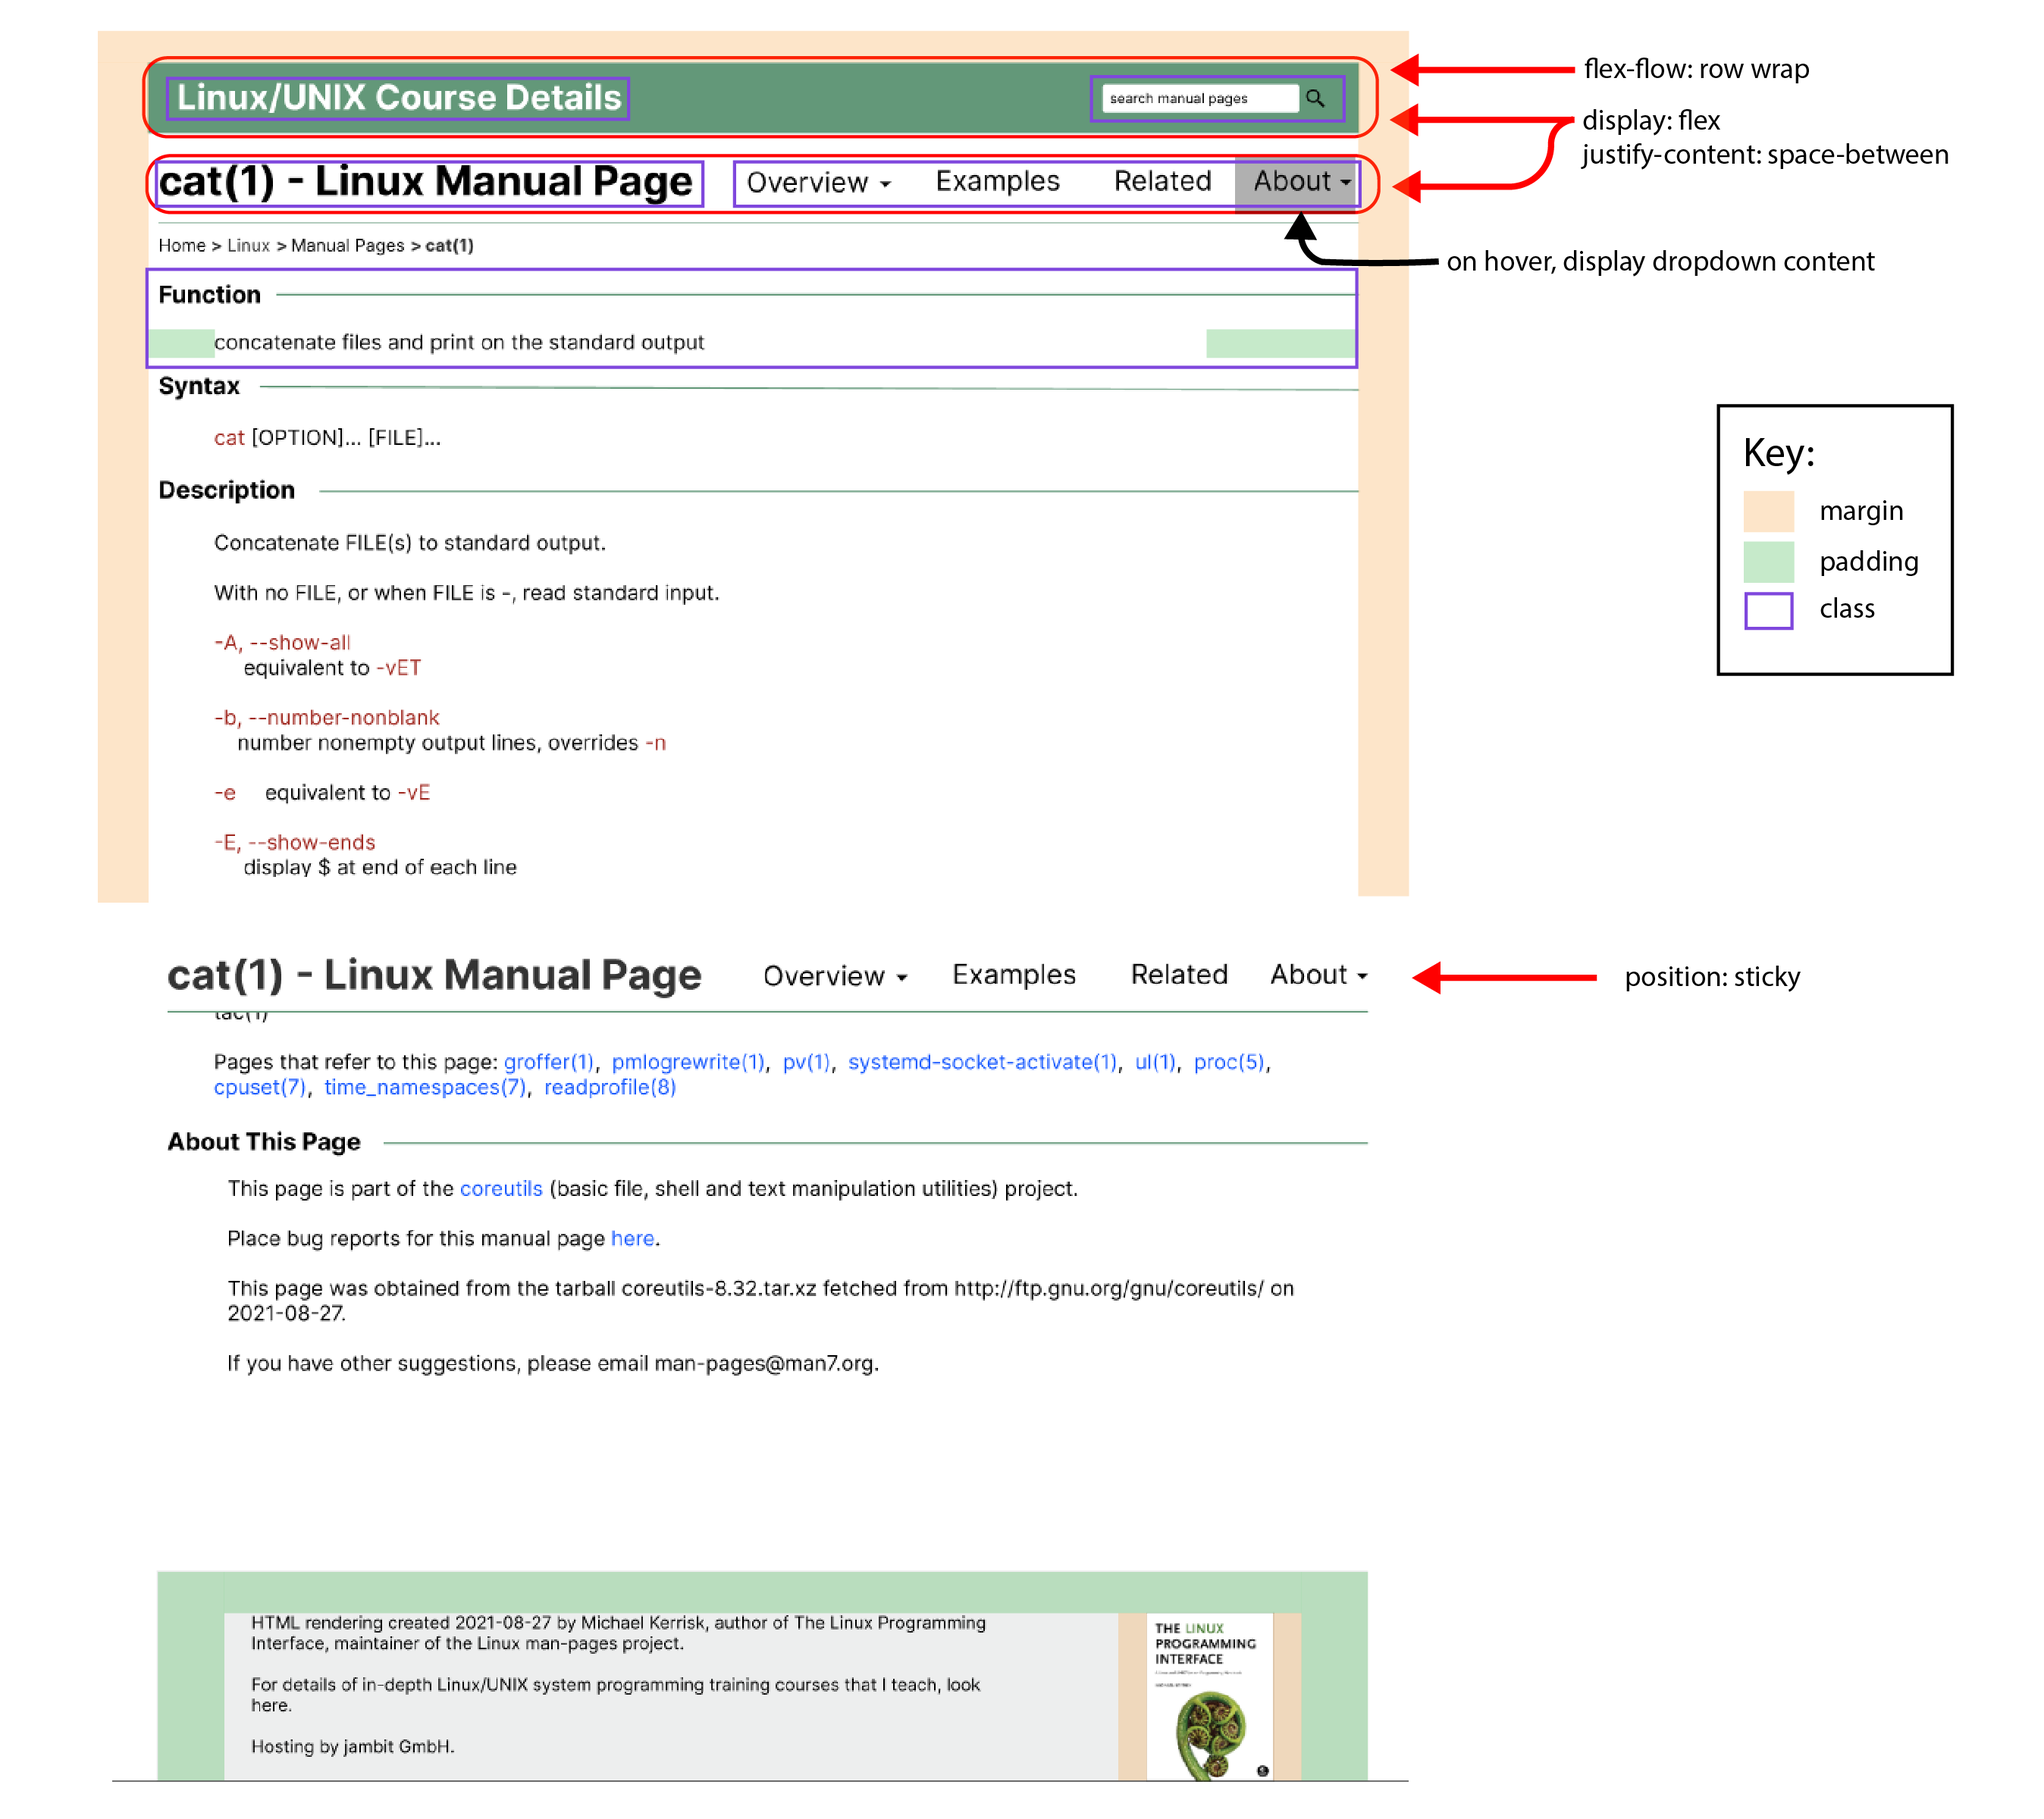
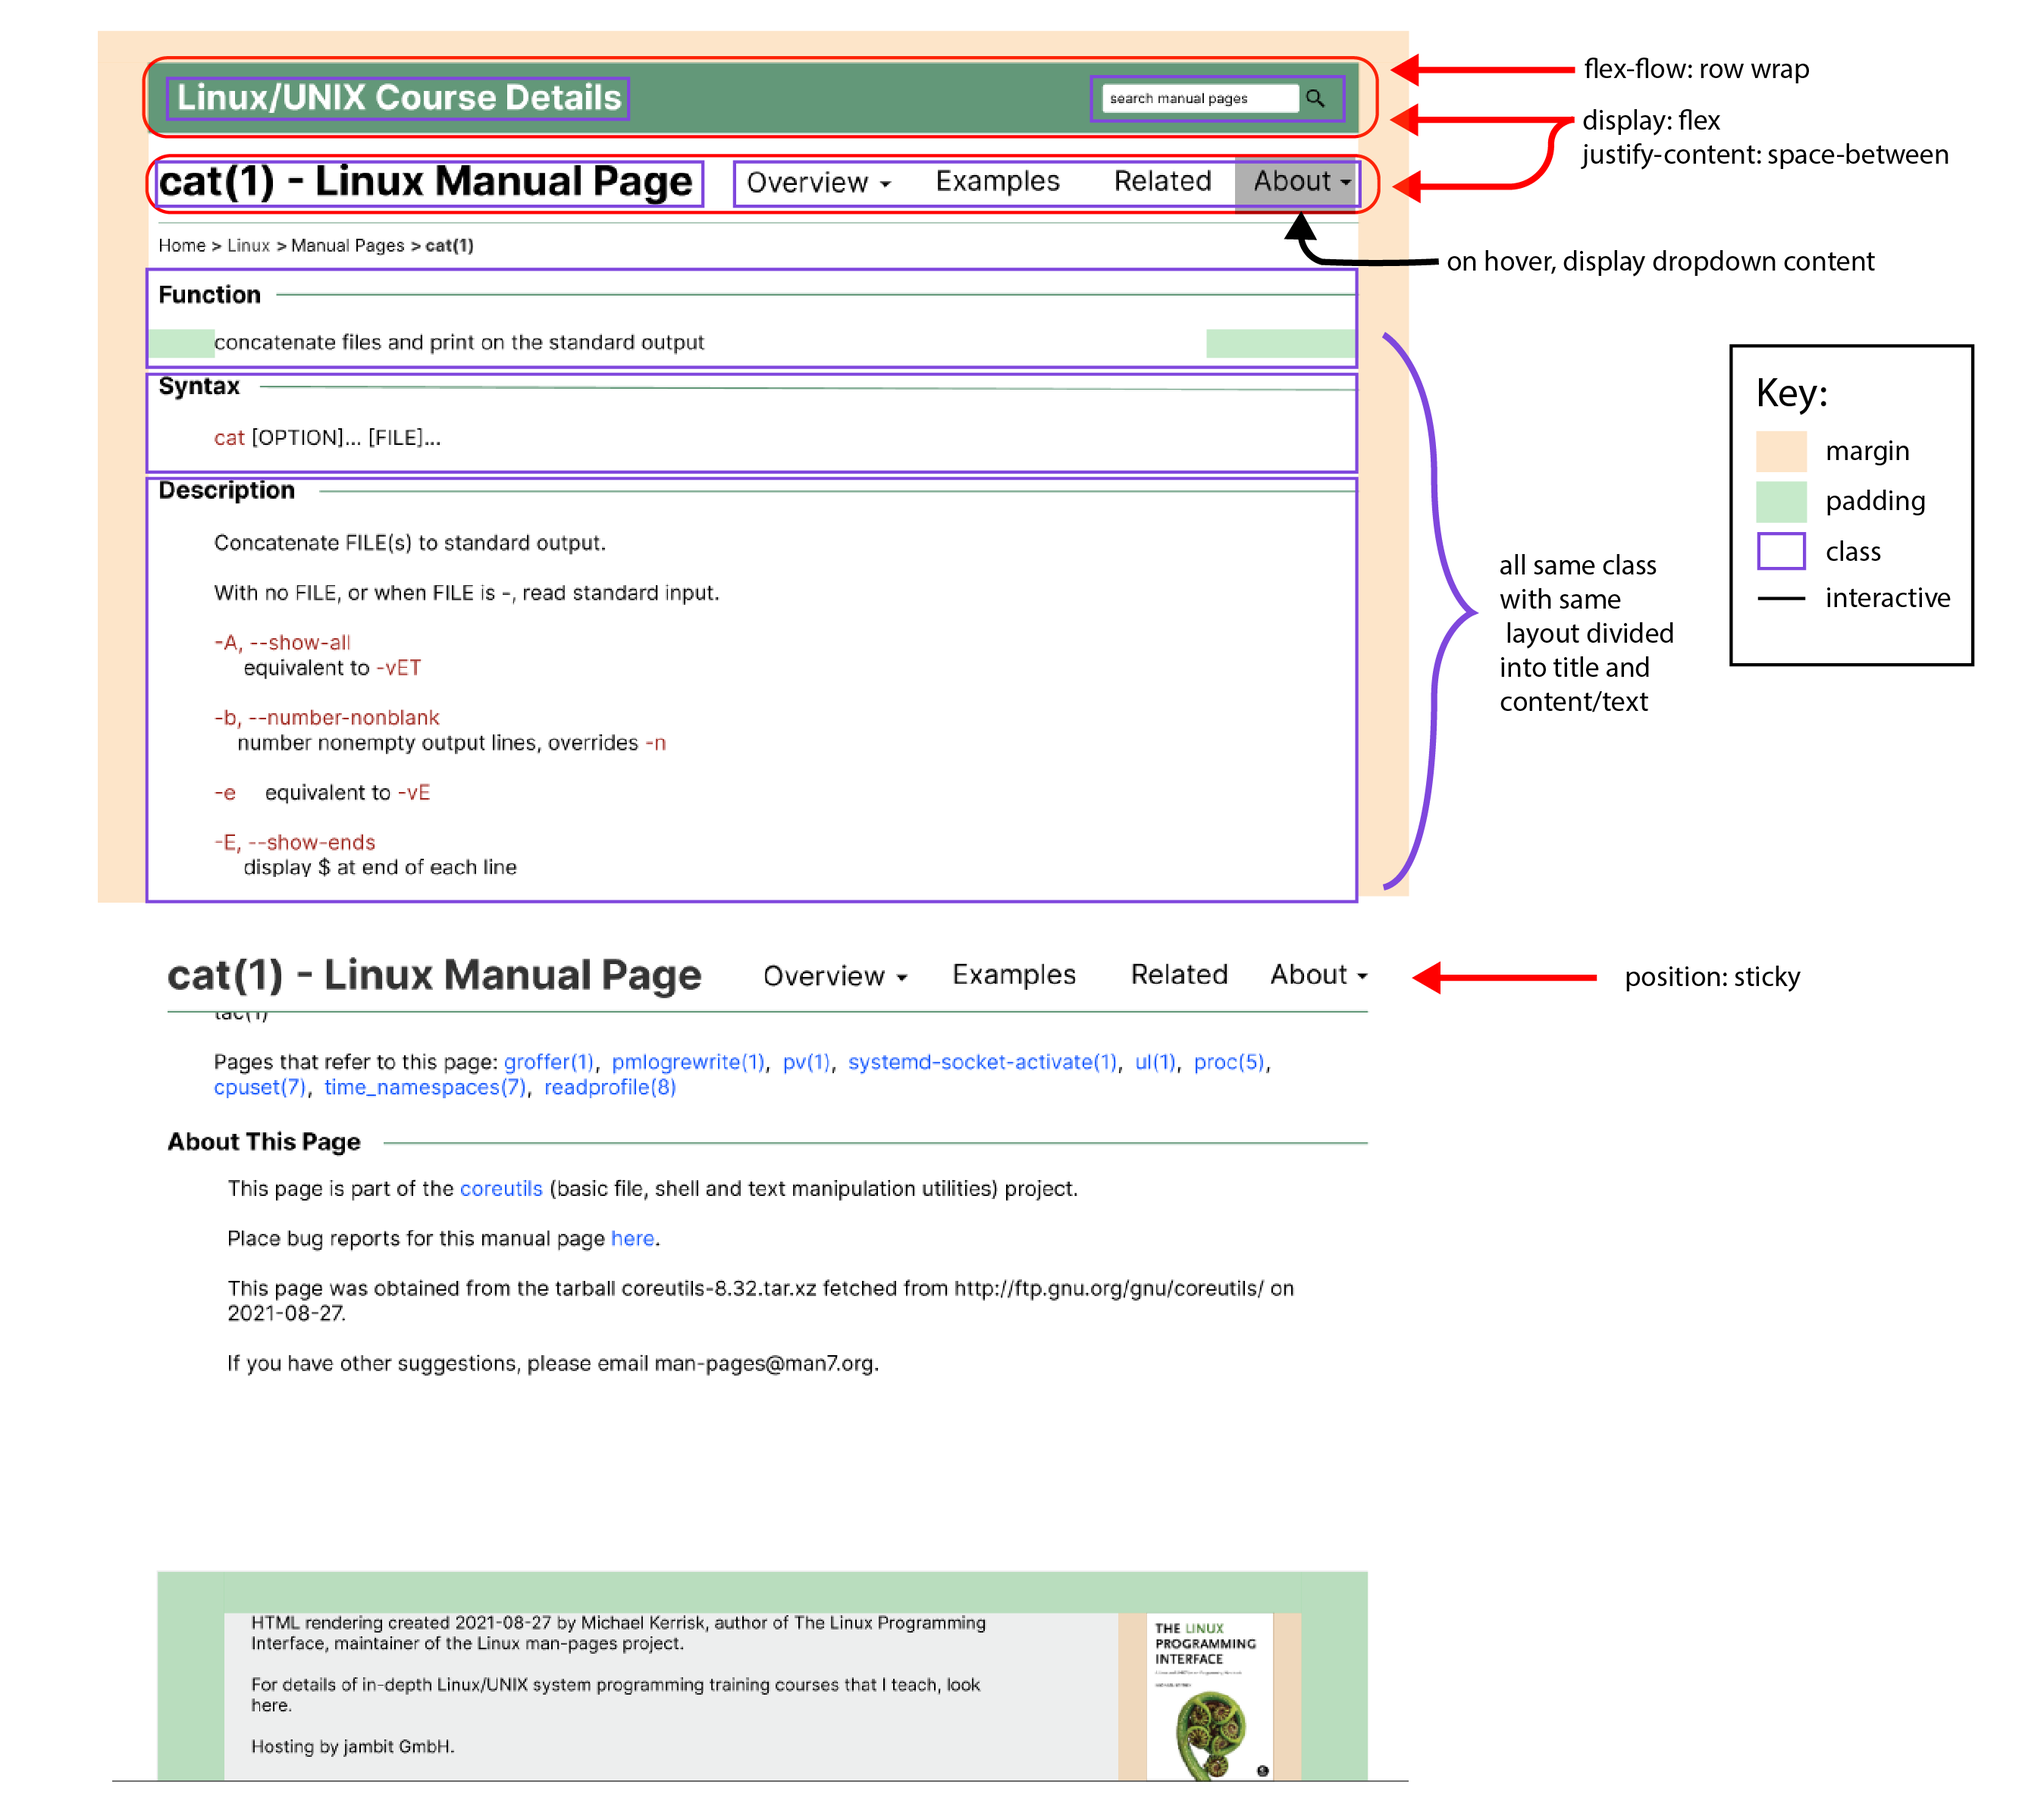
final update

diff --git a/index.html b/index.html
@@ -60,7 +60,8 @@
               <img src="assets/style.png" alt="visual design style guide"></img>
             </div>
             <h3>3. High-Fidelity Prototyping</h3>
-            <p class="description">Finally, I created a hifi prototype for desktop, tablet, and mobile on Figma. Below are the annotated screenshots, but you can view the prototypes in full <a href="https://www.figma.com/file/gmVcPXHbTmPO3FuCyGNdEC/Man-Redesign?node-id=0%3A1"  target="_blank" rel="noreferrer">here</a>. I mainly made notes on how components are reused or not as well as key layout choices.</p>
+            <p class="description">Finally, I created a hifi prototype for desktop, tablet, and mobile on Figma. Below are the annotated screenshots, but you can view the prototypes in full <a href="https://www.figma.com/file/gmVcPXHbTmPO3FuCyGNdEC/Man-Redesign?node-id=0%3A1"  target="_blank" rel="noreferrer">here</a>. I mainly made notes on how components are reused or not as well as key layout choices.
+            I also added some interactivity in the figma, which is noted in black in the screenshots.</p>
             <div class="redesign-content">
               <p>Annotated HiFi Prototype for Desktop: </p>
               <img src="assets/desktop-hifi.png" alt="annotated hifi prototype for desktop"></img>
